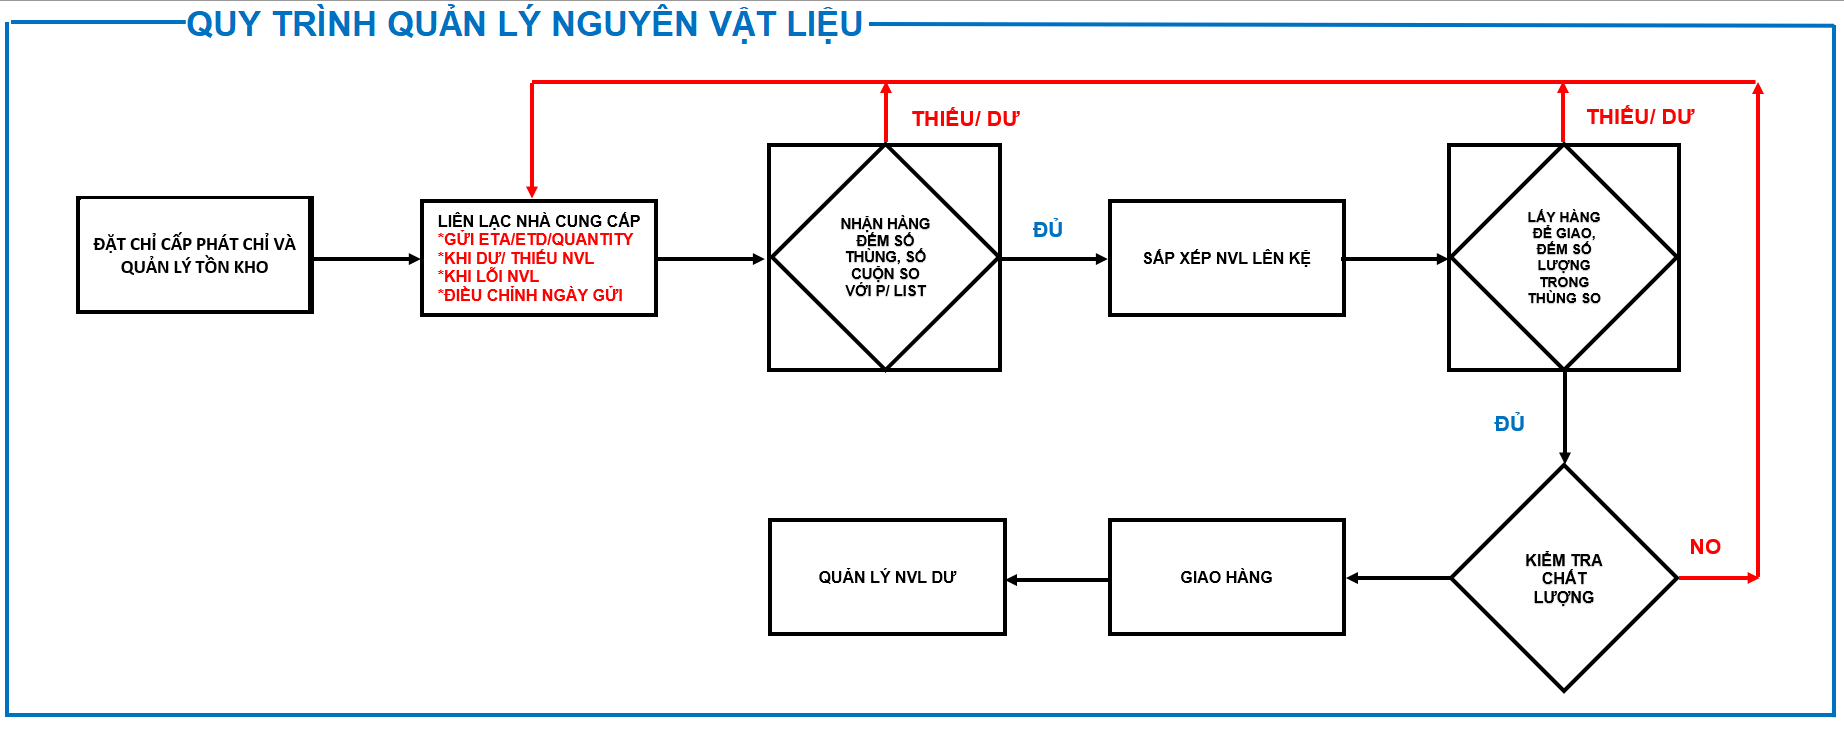
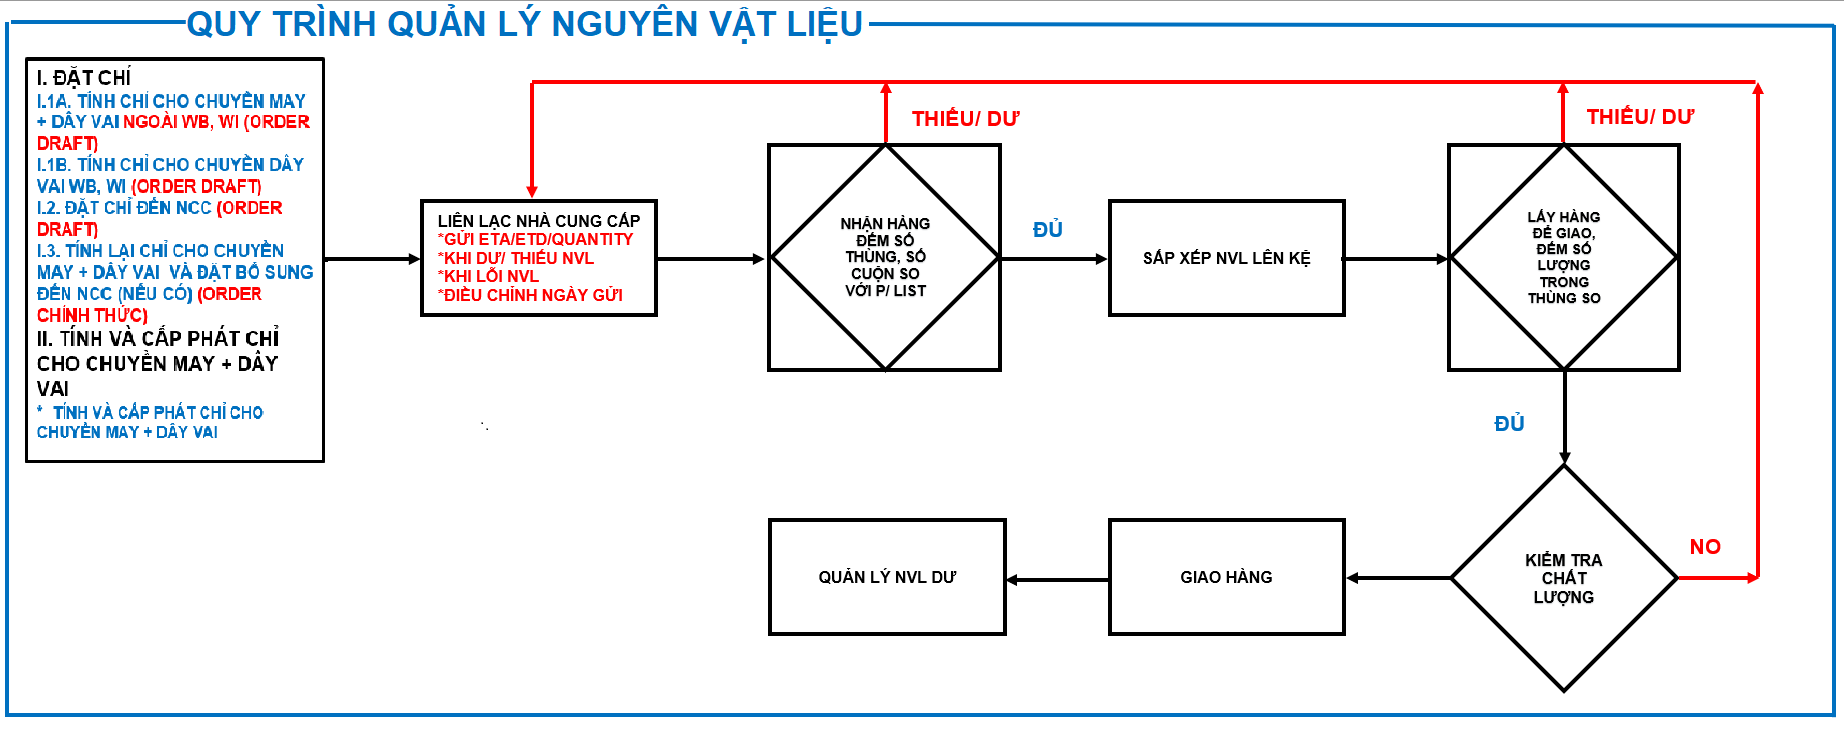
new code quy trinh kho 10-10-2023

Changed region(s): [[0.0, 0.0622, 0.1855, 0.5913], [0.0309, 0.6225, 0.1546, 0.6536]]

diff --git a/Controlers/Kho/QTQLNVL.Control.js b/Controlers/Kho/QTQLNVL.Control.js
@@ -94,3 +94,62 @@ module.exports.QTQLNVLLoad = async(req,res) =>{
     }
     
 
+       //TinhChiChuyenMay
+       module.exports.TinhChiChuyenMay= async(req, res) =>{
+        res.render('kho/QuyTrinh/TinhChiChuyenMay',{
+            title:'',
+            userId:req.signedCookies.userId,
+           html:''
+        })
+    }
+
+    module.exports.TinhChiDayVai= async(req, res) =>{
+        res.render('kho/QuyTrinh/TinhChiDayVai',{
+            title:'',
+            userId:req.signedCookies.userId,
+           html:''
+        })
+    }
+
+    module.exports.DatChi= async(req, res) =>{
+        res.render('kho/QuyTrinh/DatChi',{
+            title:'',
+            userId:req.signedCookies.userId,
+           html:''
+        })
+    }
+
+    module.exports.TinhChiLai= async(req, res) =>{
+        res.render('kho/QuyTrinh/TinhChiLai',{
+            title:'',
+            userId:req.signedCookies.userId,
+           html:''
+        })
+    }
+
+    module.exports.CapPhatChi= async(req, res) =>{
+        res.render('kho/QuyTrinh/CapPhatChi',{
+            title:'',
+            userId:req.signedCookies.userId,
+           html:''
+        })
+    }
+
+    module.exports.QuanLyTonKhoChi= async(req, res) =>{
+        res.render('kho/QuyTrinh/QuanLyTonKhoChi',{
+            title:'',
+            userId:req.signedCookies.userId,
+           html:''
+        })
+    }
+
+
+    
+
+    
+
+    
+
+    
+    
+

diff --git a/routes/kho.router.js b/routes/kho.router.js
@@ -86,6 +86,27 @@ router.get('/GIAOHANG',QTQLNVLControl.GIAOHANG)
 //QLNVLDU
 router.get('/QLNVLDU',QTQLNVLControl.QLNVLDU)
 
+// TinhChiChuyenMay
+router.get('/TinhChiChuyenMay',QTQLNVLControl.TinhChiChuyenMay)
+
+router.get('/TinhChiDayVai',QTQLNVLControl.TinhChiDayVai)
+
+router.get('/DatChi',QTQLNVLControl.DatChi)
+
+router.get('/TinhChiLai',QTQLNVLControl.TinhChiLai)
+
+router.get('/CapPhatChi',QTQLNVLControl.CapPhatChi)
+router.get('/QuanLyTonKhoChi',QTQLNVLControl.QuanLyTonKhoChi)
+
+
+
+
+
+
+
+
+
+
 //Tinh chi theo Order
 // router.get('/KhoOderTinhChiGridViewDev',OrderTinhChiControl.OrderTinhChiLoad)
 router.get('/Khowacoal_KHACHHANG_load_Web_V1',OrderTinhChiControl.Khowacoal_KHACHHANG_load_Web_V1)
